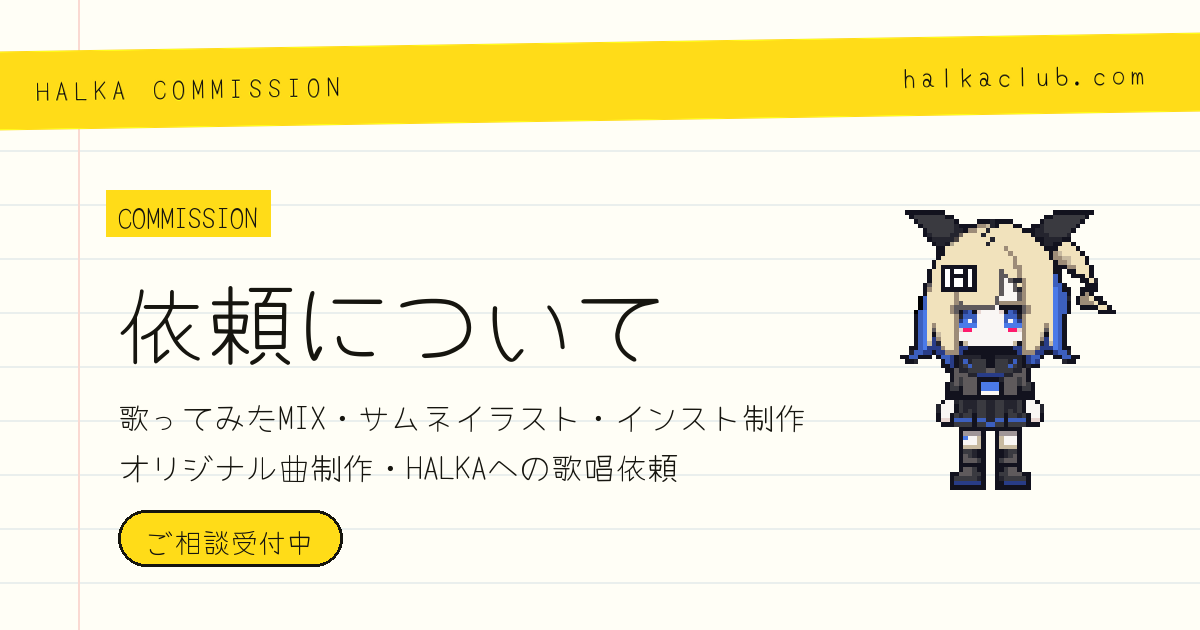
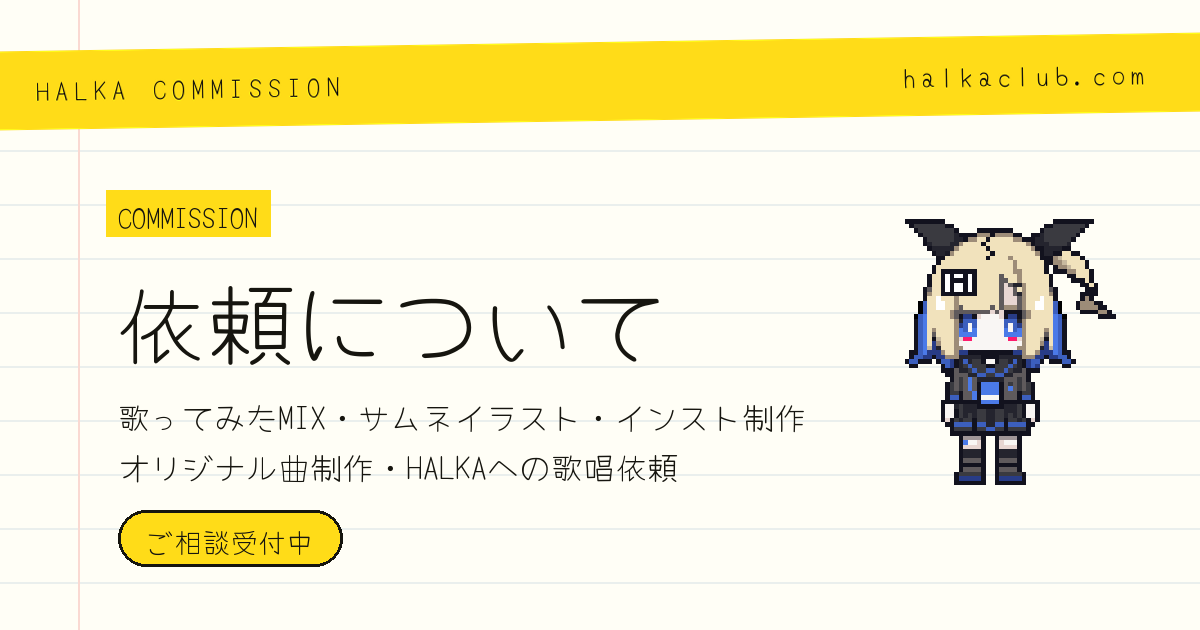
トップのﾊﾙｶﾁｬﾝを2種類にして、開くたびにどちらかを出す
いただいた2つを assets/profile/halgif1.gif と halgif2.gif に置き、script.js で
どちらかを選ぶようにしました。選んだほうは、つついたときの分身にも使います。

2つとも 64×64・元のgifと同じ大きさだったので、拡大・縮小はしていません
（ドット絵は拡大縮小で必ず崩れるので、必要なときだけにしています）。

絵柄が変わったので、OGPのカード画像も作り直し、読んでいるページの ?v= を
上げました（script.js と halgif1.gif のぶんも）。

ツール側も2枚に合わせました。「トップページ」タブでﾊﾙｶﾁｬﾝが並んで、どれでも
差し替えられます。点検の ?v= の見張りも、assets/profile と assets/ogp の
フォルダを数える形にしたので、増えたぶんだけ自動で見ます。

テストは304件のまま通っています。

Changed region(s): [[0.74, 0.3317, 0.925, 0.7841]]

diff --git a/tools/HalkaSiteEditor/HalkaSiteEditor/MainWindow.xaml b/tools/HalkaSiteEditor/HalkaSiteEditor/MainWindow.xaml
@@ -13,6 +13,7 @@
     <local:TextToVisibilityConverter x:Key="TextToVisibility"/>
     <local:ChangedToBrushConverter x:Key="ChangedToBrush"/>
     <local:KindMatchConverter x:Key="KindMatch"/>
+    <local:PathToImageConverter x:Key="PathToImage"/>
 
     <Style TargetType="Button">
       <Setter Property="Background" Value="#333B46"/>
@@ -834,23 +835,41 @@
                          HorizontalAlignment="Left" Stretch="Uniform"/>
                 </StackPanel>
               </Border>
-              <Border x:Name="ProfileBox" Background="#20262F" BorderBrush="#2F3845" BorderThickness="1"
+              <Border x:Name="ProfileBox" Background="#1A1F26" BorderBrush="#2F3845" BorderThickness="1"
                       Margin="0,10,0,0" Padding="12,10">
                 <StackPanel>
-                  <DockPanel Margin="0,0,0,8">
-                    <TextBlock DockPanel.Dock="Left" Text="ﾊﾙｶﾁｬﾝ" FontSize="14"/>
-                    <Button DockPanel.Dock="Right" Content="画像を選ぶ..." Click="CardChooseClick"
-                            Tag="profile" Padding="14,5"/>
-                    <Button DockPanel.Dock="Right" x:Name="ProfileClearButton" Content="選び直しをやめる"
-                            Click="CardClearClick" Tag="profile"/>
-                    <TextBlock x:Name="ProfileSummary" Margin="14,3,0,0" Foreground="#AEB8C3"/>
-                  </DockPanel>
-                  <TextBlock TextWrapping="Wrap" Foreground="#8C97A6" FontSize="11" Margin="0,0,0,8"
-                             Text="トップページでつつけるGIFです。差し替えると、読み込んでいる2か所の番号を自動で上げます（古い絵が残らないように）。"/>
-                  <Image x:Name="ProfilePreview" Width="96" Height="96" HorizontalAlignment="Left"
-                         Stretch="Uniform" RenderOptions.BitmapScalingMode="NearestNeighbor"/>
-                  <TextBlock x:Name="ProfileError" Foreground="#FF8A8A" FontSize="11" TextWrapping="Wrap"
-                             Margin="0,6,0,0"/>
+                  <TextBlock Text="ﾊﾙｶﾁｬﾝ" FontSize="15" Foreground="#FFCB75" Margin="0,0,0,6"/>
+                  <TextBlock TextWrapping="Wrap" Foreground="#8C97A6" FontSize="11" Margin="0,0,0,10"
+                             Text="トップページでつつけるGIFです。2つ以上あると、ページを開くたびにどれか1つが出ます。差し替えると、読み込んでいる所の番号を自動で上げます（古い絵が残らないように）。"/>
+                  <ItemsControl x:Name="ProfileItems">
+                    <ItemsControl.ItemTemplate>
+                      <DataTemplate>
+                        <Border Background="#20262F" BorderBrush="#2F3845" BorderThickness="1"
+                                Margin="0,0,0,6" Padding="10,8">
+                          <DockPanel>
+                            <Image DockPanel.Dock="Left" Width="72" Height="72" Margin="0,0,12,0"
+                                   Stretch="Uniform" RenderOptions.BitmapScalingMode="NearestNeighbor"
+                                   Source="{Binding Preview, Converter={StaticResource PathToImage}}"/>
+                            <StackPanel>
+                              <DockPanel Margin="0,0,0,6">
+                                <TextBlock DockPanel.Dock="Left" Text="{Binding Label}" FontSize="14"
+                                           VerticalAlignment="Center"/>
+                                <Button DockPanel.Dock="Right" Content="画像を選ぶ..." Click="CardChooseClick"
+                                        Tag="{Binding}" Padding="14,5"/>
+                                <Button DockPanel.Dock="Right" Content="選び直しをやめる" Click="CardClearClick"
+                                        Tag="{Binding}" IsEnabled="{Binding Changed}"/>
+                                <TextBlock Text="{Binding Summary}" Margin="14,4,0,0" Foreground="#AEB8C3"/>
+                              </DockPanel>
+                              <TextBlock Text="{Binding Relative}" Foreground="#8C97A6" FontSize="11"/>
+                              <TextBlock Foreground="#FF8A8A" FontSize="11" TextWrapping="Wrap"
+                                         Margin="0,4,0,0" Text="{Binding Error}"
+                                         Visibility="{Binding Error, Converter={StaticResource TextToVisibility}}"/>
+                            </StackPanel>
+                          </DockPanel>
+                        </Border>
+                      </DataTemplate>
+                    </ItemsControl.ItemTemplate>
+                  </ItemsControl>
                 </StackPanel>
               </Border>
               <ItemsControl x:Name="TopRows" ItemTemplate="{StaticResource RowTemplate}" Margin="0,10,0,0"/>

diff --git a/index.html b/index.html
@@ -14,7 +14,7 @@
     <meta property="og:url" content="https://halkaclub.com/" />
     <meta property="og:title" content="HALKA" />
     <meta property="og:description" content="HALKAのリンク集。歌ってみた、オリジナル曲、イラスト、ゲーム。" />
-    <meta property="og:image" content="https://halkaclub.com/assets/ogp/home.png?v=1" />
+    <meta property="og:image" content="https://halkaclub.com/assets/ogp/home.png?v=2" />
     <meta property="og:image:type" content="image/png" />
     <meta property="og:image:width" content="1200" />
     <meta property="og:image:height" content="630" />
@@ -50,7 +50,7 @@
 
             <div class="halka-gif-stage">
               <button type="button" class="halka-gif-button" id="halka-gif-button" aria-label="ﾊﾙｶﾁｬﾝをつつく">
-                <img class="halka-gif" src="assets/profile/halgif1.gif?v=2" width="64" height="64" alt="ﾊﾙｶﾁｬﾝ" draggable="false" />
+                <img class="halka-gif" src="assets/profile/halgif1.gif?v=3" width="64" height="64" alt="ﾊﾙｶﾁｬﾝ" draggable="false" />
               </button>
             </div>
 
@@ -287,7 +287,7 @@
 
     <script src="works/works-data.js?v=1" defer></script>
     <script src="youtube-thumbnail.js" defer></script>
-    <script src="script.js?v=1" defer></script>
+    <script src="script.js?v=2" defer></script>
     <!-- アクセス解析（Cloudflare Web Analytics）。Cookie は使いません。 -->
     <script type="module" src="https://static.cloudflareinsights.com/beacon.min.js" data-cf-beacon='{"token": "b477de71645a48dca466e57a6464c448"}'></script>
   </body>

diff --git a/script.js b/script.js
@@ -84,7 +84,13 @@ const HALKA_GIF_COMBO_WINDOW_MS = 3000;
 const HALKA_GIF_COMBO_COOLDOWN_MS = 5000;
 const HALKA_GIF_MULTIPLY_CHANCE = 0.2;
 const HALKA_GIF_MAX_CLONES = 10;
-const HALKA_GIF_SRC = "assets/profile/halgif1.gif?v=2";
+// ﾊﾙｶﾁｬﾝは2種類あり、ページを開くたびにどちらかが出ます。
+const HALKA_GIF_SOURCES = [
+  "assets/profile/halgif1.gif?v=3",
+  "assets/profile/halgif2.gif?v=1",
+];
+const HALKA_GIF_SRC =
+  HALKA_GIF_SOURCES[Math.floor(Math.random() * HALKA_GIF_SOURCES.length)];
 
 function halkaGifPrefersReducedMotion() {
   return window.matchMedia("(prefers-reduced-motion: reduce)").matches;
@@ -101,6 +107,13 @@ function makeHalkaGifNoRepeatPicker(pool) {
     return pool[index];
   };
 }
+
+// 開いた瞬間に、選んだほうへ差し替えます（HTMLには1つ目が書いてあります）。
+function applyHalkaGifSource() {
+  const image = document.querySelector(".halka-gif");
+  if (image) image.src = HALKA_GIF_SRC;
+}
+applyHalkaGifSource();
 
 const pickHalkaGifPhrase = makeHalkaGifNoRepeatPicker(HALKA_GIF_PHRASES);
 const pickHalkaGifMultiplyPhrase = makeHalkaGifNoRepeatPicker(HALKA_GIF_MULTIPLY_PHRASES);

diff --git a/commission/index.html b/commission/index.html
@@ -14,7 +14,7 @@
     <meta property="og:url" content="https://halkaclub.com/commission/" />
     <meta property="og:title" content="依頼について | HALKA" />
     <meta property="og:description" content="歌ってみたMIX・サムネイラスト・インスト制作・オリジナル曲制作・HALKAへの歌唱依頼を承っています。料金とご相談方法はこちら。" />
-    <meta property="og:image" content="https://halkaclub.com/assets/ogp/commission.png?v=1" />
+    <meta property="og:image" content="https://halkaclub.com/assets/ogp/commission.png?v=2" />
     <meta property="og:image:type" content="image/png" />
     <meta property="og:image:width" content="1200" />
     <meta property="og:image:height" content="630" />

diff --git a/game/gyugyu-rinchan/index.html b/game/gyugyu-rinchan/index.html
@@ -14,7 +14,7 @@
     <meta property="og:url" content="https://halkaclub.com/game/gyugyu-rinchan/" />
     <meta property="og:title" content="ぎゅうぎゅうりんちゃん | HALKA" />
     <meta property="og:description" content="りんちゃんを落として押し出す。詰まったらパカーッと開けて解決。ブラウザでそのまま遊べます。" />
-    <meta property="og:image" content="https://halkaclub.com/assets/ogp/game-gyugyu-rinchan.png?v=1" />
+    <meta property="og:image" content="https://halkaclub.com/assets/ogp/game-gyugyu-rinchan.png?v=2" />
     <meta property="og:image:type" content="image/png" />
     <meta property="og:image:width" content="1200" />
     <meta property="og:image:height" content="630" />

diff --git a/game/kagamine-challenge/index.html b/game/kagamine-challenge/index.html
@@ -14,7 +14,7 @@
     <meta property="og:url" content="https://halkaclub.com/game/kagamine-challenge/" />
     <meta property="og:title" content="かがみねちゃれんじ | HALKA" />
     <meta property="og:description" content="リンとレンの文字を揃えるルーレットゲーム。ブラウザでそのまま遊べます。" />
-    <meta property="og:image" content="https://halkaclub.com/assets/ogp/game-kagamine-challenge.png?v=1" />
+    <meta property="og:image" content="https://halkaclub.com/assets/ogp/game-kagamine-challenge.png?v=2" />
     <meta property="og:image:type" content="image/png" />
     <meta property="og:image:width" content="1200" />
     <meta property="og:image:height" content="630" />

diff --git a/commission/en/index.html b/commission/en/index.html
@@ -14,7 +14,7 @@
     <meta property="og:url" content="https://halkaclub.com/commission/en/" />
     <meta property="og:title" content="Commissions | HALKA" />
     <meta property="og:description" content="Vocal cover mixing, thumbnail illustration, instrumental and original song production, and guest vocals by HALKA. Prices and how to get in touch." />
-    <meta property="og:image" content="https://halkaclub.com/assets/ogp/commission-en.png?v=1" />
+    <meta property="og:image" content="https://halkaclub.com/assets/ogp/commission-en.png?v=2" />
     <meta property="og:image:type" content="image/png" />
     <meta property="og:image:width" content="1200" />
     <meta property="og:image:height" content="630" />

diff --git a/works/index.html b/works/index.html
@@ -14,7 +14,7 @@
     <meta property="og:url" content="https://halkaclub.com/works/" />
     <meta property="og:title" content="作品一覧 | HALKA" />
     <meta property="og:description" content="HALKAの作品一覧。歌ってみた、ひらがな一文字シリーズ、方向シリーズ、そのほか。" />
-    <meta property="og:image" content="https://halkaclub.com/assets/ogp/works.png?v=1" />
+    <meta property="og:image" content="https://halkaclub.com/assets/ogp/works.png?v=2" />
     <meta property="og:image:type" content="image/png" />
     <meta property="og:image:width" content="1200" />
     <meta property="og:image:height" content="630" />

diff --git a/club/index.html b/club/index.html
@@ -14,7 +14,7 @@
     <meta property="og:url" content="https://halkaclub.com/club/" />
     <meta property="og:title" content="はるかくらぶ | HALKA" />
     <meta property="og:description" content="ステムデータ、デモ音源、制作資料の置き場です。支援してくれる方へ。" />
-    <meta property="og:image" content="https://halkaclub.com/assets/ogp/club.png?v=1" />
+    <meta property="og:image" content="https://halkaclub.com/assets/ogp/club.png?v=2" />
     <meta property="og:image:type" content="image/png" />
     <meta property="og:image:width" content="1200" />
     <meta property="og:image:height" content="630" />

diff --git a/game/index.html b/game/index.html
@@ -14,7 +14,7 @@
     <meta property="og:url" content="https://halkaclub.com/game/" />
     <meta property="og:title" content="ゲーム集 | HALKA" />
     <meta property="og:description" content="ブラウザでそのまま遊べる、HALKAのゲーム集。" />
-    <meta property="og:image" content="https://halkaclub.com/assets/ogp/game.png?v=1" />
+    <meta property="og:image" content="https://halkaclub.com/assets/ogp/game.png?v=2" />
     <meta property="og:image:type" content="image/png" />
     <meta property="og:image:width" content="1200" />
     <meta property="og:image:height" content="630" />

diff --git a/tools/HalkaSiteEditor/HalkaSiteEditor.Core/SiteSession.cs b/tools/HalkaSiteEditor/HalkaSiteEditor.Core/SiteSession.cs
@@ -83,13 +83,12 @@ public sealed class SiteSession
 
     /// <summary>保存の直前に取る控え。「保存を1つ前に戻す」で使います。</summary>
     public SaveBackups Backups { get; private set; } = new("");
-    /// <summary>トップページのﾊﾙｶﾁｬﾝ。</summary>
-    public ImageSlot? Profile { get; }
+    /// <summary>トップページのﾊﾙｶﾁｬﾝ（ページを開くたび、この中から1つが出ます）。</summary>
+    public IReadOnlyList<ImageSlot> Profiles { get; }
 
     /// <summary>差し替えられる画像をまとめて。</summary>
     public IEnumerable<ImageSlot> Images =>
-        (Meta?.Cards ?? Array.Empty<ImageSlot>()).Concat(
-            Profile == null ? Array.Empty<ImageSlot>() : new[] { Profile });
+        (Meta?.Cards ?? Array.Empty<ImageSlot>()).Concat(Profiles);
 
     /// <summary>このツールが書き換えるファイル（サイトのフォルダーからの相対パス）。公開もこれだけを対象にします。</summary>
     public IReadOnlyList<string> ManagedFiles => files
@@ -115,7 +114,7 @@ public sealed class SiteSession
         PageTextDocument? clubText, PageTextDocument? legalText, WorldHistory? world,
         UtamazeRelease? utamaze,
         SiteFile? worksPage, NewsDocument? news, ParagraphRun? clubUpdate, GameDocument? games,
-        PageMetaDocument? meta, ImageSlot? profile, LinkGrid? links)
+        PageMetaDocument? meta, IReadOnlyList<ImageSlot> profiles, LinkGrid? links)
     {
         Root = root;
         this.files = files;
@@ -132,7 +131,7 @@ public sealed class SiteSession
         ClubUpdate = clubUpdate;
         Games = games;
         Meta = meta;
-        Profile = profile;
+        Profiles = profiles;
         Links = links;
     }
 
@@ -227,10 +226,14 @@ public sealed class SiteSession
                 meta.AllFields.ToArray()));
         }
 
-        var profilePath = Path.Combine(root, "assets", "profile", "halgif1.gif");
-        var profile = File.Exists(profilePath)
-            ? new ImageSlot(root, "assets/profile/halgif1.gif", "ﾊﾙｶﾁｬﾝ", cardSize: false)
-            : null;
+        // ﾊﾙｶﾁｬﾝは何枚あってもよいので、フォルダを数えます。
+        var profileFolder = Path.Combine(root, "assets", "profile");
+        var profiles = (Directory.Exists(profileFolder)
+                ? Directory.GetFiles(profileFolder, "*.gif").OrderBy(path => path, StringComparer.Ordinal)
+                : Enumerable.Empty<string>())
+            .Select((path, at) => new ImageSlot(root, "assets/profile/" + Path.GetFileName(path),
+                $"ﾊﾙｶﾁｬﾝ{at + 1}", cardSize: false))
+            .ToArray();
 
         // トップページの「うれしいこと」と、くらぶの更新内容。
         var news = NewsDocument.Load(home, SitePaths.Relative(root, home.Path));
@@ -272,7 +275,7 @@ public sealed class SiteSession
             : null;
 
         var session = new SiteSession(root, files, groups, works, commissionText, utamazeText, clubText,
-            legalText, world, utamaze, worksPage, news, clubUpdate, games, meta, profile, links);
+            legalText, world, utamaze, worksPage, news, clubUpdate, games, meta, profiles, links);
         session.Backups = backups ?? SaveBackups.For(root);
         return session;
     }

diff --git a/tools/HalkaSiteEditor/HalkaSiteEditor.Tests/Program.cs b/tools/HalkaSiteEditor/HalkaSiteEditor.Tests/Program.cs
@@ -53,7 +53,7 @@ static void CopySite(string from, string to)
 
     // 画像も、差し替えの確認に使うので複写します。
     foreach (var image in Directory.GetFiles(Path.Combine(from, "assets", "ogp"), "*.png")
-                 .Append(Path.Combine(from, "assets", "profile", "halgif1.gif")))
+                 .Concat(Directory.GetFiles(Path.Combine(from, "assets", "profile"), "*.gif")))
     {
         var destination = Path.Combine(to, Path.GetRelativePath(from, image));
         Directory.CreateDirectory(Path.GetDirectoryName(destination)!);
@@ -787,7 +787,11 @@ Check("説明が無いページは欄も出さない",
     metaClub.Rows.All(row => row.Label != "検索結果の説明"));
 Check("カード画像を見つける",
     metaHome.Card!.Relative == "assets/ogp/home.png" && metaHome.Card.Current!.Width == 1200);
-Check("ﾊﾙｶﾁｬﾝも差し替えられる", v10.Profile!.Relative == "assets/profile/halgif1.gif");
+var v10Profile = v10.Profiles[0];
+Check("ﾊﾙｶﾁｬﾝを何枚でも差し替えられる",
+    v10.Profiles.Count == 2 && v10Profile.Relative == "assets/profile/halgif1.gif" &&
+    v10.Profiles[1].Relative == "assets/profile/halgif2.gif" &&
+    v10.Profiles.All(gif => gif.Label.StartsWith("ﾊﾙｶﾁｬﾝ") && gif.Current is { Format: "gif" }));
 Check("画像も公開の対象に入る",
     v10.ManagedFiles.Contains("assets/ogp/home.png") &&
     v10.ManagedFiles.Contains("assets/profile/halgif1.gif"));
@@ -814,10 +818,10 @@ Check("大きさが違うカード画像は断る",
 metaHome.Card.Choose(Path.Combine(sandbox, "assets", "ogp", "game.png"));
 Check("形も大きさも合えば受け取る", !metaHome.Card.HasError && metaHome.Card.Changed && !v10.HasError);
 Check("ﾊﾙｶﾁｬﾝにPNGは入れられない",
-    !Throws(() => v10.Profile!.Choose(Path.Combine(sandbox, "assets", "ogp", "game.png"))) &&
-    v10.Profile!.HasError && v10.Profile.Error!.Contains("GIF"));
-v10.Profile.Clear();
-Check("選び直しは取り消せる", !v10.Profile.Changed && !v10.HasError);
+    !Throws(() => v10Profile.Choose(Path.Combine(sandbox, "assets", "ogp", "game.png"))) &&
+    v10Profile.HasError && v10Profile.Error!.Contains("GIF"));
+v10Profile.Clear();
+Check("選び直しは取り消せる", !v10Profile.Changed && !v10.HasError);
 
 var homeCardBefore = CacheBuster.Current(File.ReadAllText(Path.Combine(sandbox, "index.html")), "assets/ogp/home.png");
 v10.Save();
@@ -841,7 +845,7 @@ var gifCopy = Path.Combine(sandbox, "newgif.gif");
 File.Copy(Path.Combine(sandbox, "assets", "profile", "halgif1.gif"), gifCopy, overwrite: true);
 var indexGifBefore = CacheBuster.Current(File.ReadAllText(Path.Combine(sandbox, "index.html")), "assets/profile/halgif1.gif");
 var scriptGifBefore = CacheBuster.Current(File.ReadAllText(Path.Combine(sandbox, "script.js")), "assets/profile/halgif1.gif");
-gifSession.Profile!.Choose(gifCopy);
+gifSession.Profiles[0].Choose(gifCopy);
 gifSession.Save();
 Check("ﾊﾙｶﾁｬﾝは読んでいる2か所とも番号が上がる",
     CacheBuster.Current(File.ReadAllText(Path.Combine(sandbox, "index.html")), "assets/profile/halgif1.gif")
